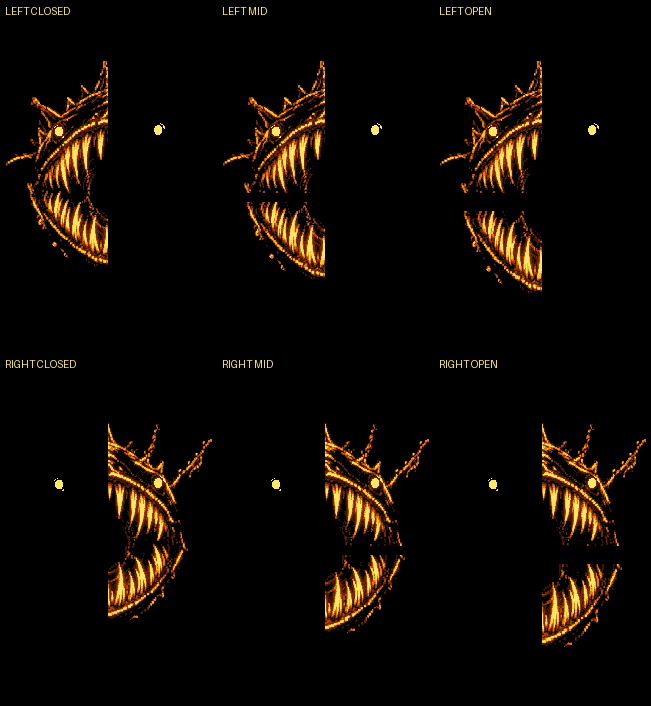
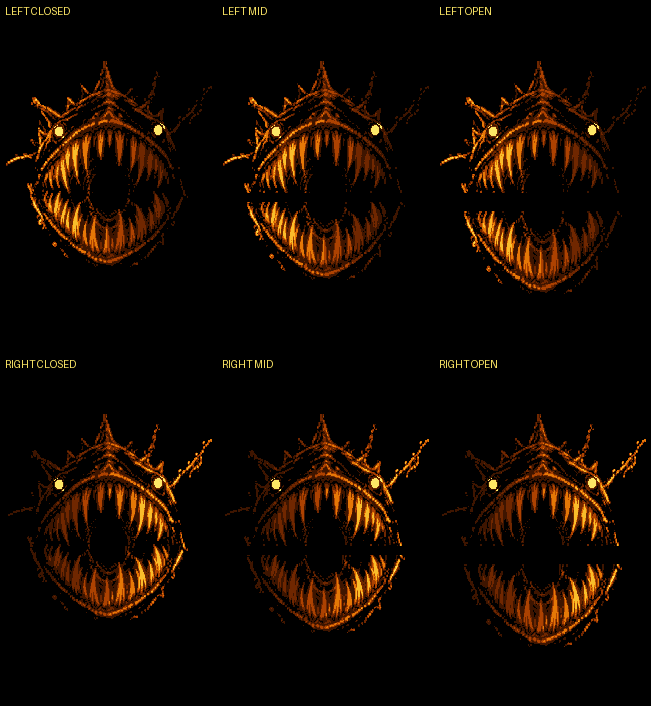
fix(abyss): derive maw light from normal atlas

diff --git a/abyss-glow/maw-stand/index.html b/abyss-glow/maw-stand/index.html
@@ -5,12 +5,13 @@
 /* Isolated evidence stand. The accepted abyss-glow/stand/index.html is not imported or edited. */
 const c=document.querySelector('canvas'),x=c.getContext('2d');x.imageSmoothingEnabled=false;
 const atlas=new Image();atlas.src='../assets/maw_front_v1/maw_front_atlas.png';
+const lightAtlas=new Image();lightAtlas.src='../assets/maw_front_v1/maw_front_light8.png';
 const W=217,H=289,P=[108,168],rect={upper:{body:[2,2],detail:[223,2],emissive:[665,2]},lower:{body:[2,295],detail:[223,295],emissive:[665,295]}};
 let last=0,elapsed=0;
-function tile(part,layer,clip){const r=rect[part][layer];if(clip){x.save();x.beginPath();x.rect(clip[0],0,clip[1],H);x.clip()}x.drawImage(atlas,r[0],r[1],W,H,0,0,W,H);if(clip)x.restore()}
-function part(name,light){tile(name,'body');const facing=light<0?[0,P[0]]:[P[0],W-P[0]];tile(name,'detail',facing);tile(name,'emissive')}
-function frame(now){const dt=Math.min(.05,(now-last)/1000||0);last=now;elapsed+=dt;const phase=(elapsed%4)/4;const open=Math.sin(Math.PI*Math.min(1,phase*2));const light=(Math.floor(elapsed/4)%2)?1:-1;
- x.setTransform(1,0,0,1,0,0);x.fillStyle='#000';x.fillRect(0,0,c.width,c.height);const s=1.6,ox=(c.width-W*s)/2,oy=170;x.translate(ox,oy);x.scale(s,s);part('upper',light);
- x.save();x.translate(P[0],P[1]+open*18);x.scale(1,1+open*.12);x.translate(-P[0],-P[1]);part('lower',light);x.restore();requestAnimationFrame(frame)}
-atlas.onload=()=>requestAnimationFrame(frame);
+function tile(part,layer){const r=rect[part][layer];x.drawImage(atlas,r[0],r[1],W,H,0,0,W,H)}
+function part(name,direction){tile(name,'body');const row=name==='upper'?0:H;x.drawImage(lightAtlas,direction*W,row,W,H,0,0,W,H);tile(name,'emissive')}
+function frame(now){const dt=Math.min(.05,(now-last)/1000||0);last=now;elapsed+=dt;const phase=(elapsed%4)/4;const open=Math.sin(Math.PI*Math.min(1,phase*2));const direction=Math.floor((elapsed/2)%8);
+ x.setTransform(1,0,0,1,0,0);x.fillStyle='#000';x.fillRect(0,0,c.width,c.height);const s=1.6,ox=(c.width-W*s)/2,oy=170;x.translate(ox,oy);x.scale(s,s);part('upper',direction);
+ x.save();x.translate(P[0],P[1]+open*18);x.scale(1,1+open*.12);x.translate(-P[0],-P[1]);part('lower',direction);x.restore();requestAnimationFrame(frame)}
+Promise.all([atlas.decode(),lightAtlas.decode()]).then(()=>requestAnimationFrame(frame));
 </script>

diff --git a/automation/asset-quality/build_maw_motion_evidence.py b/automation/asset-quality/build_maw_motion_evidence.py
@@ -1,32 +1,171 @@
 #!/usr/bin/env python3
-"""Render deterministic closed/mid/open evidence from the canonical owner maw atlas."""
-import argparse,json
+"""Build deterministic normal-derived light tiles and maw motion evidence."""
+import argparse
+import hashlib
+import json
+import math
 from pathlib import Path
-from PIL import Image,ImageDraw
 
-def build(atlas_path,manifest_path,out_png,out_json):
- m=json.loads(Path(manifest_path).read_text()); a=Image.open(atlas_path).convert('RGBA'); w,h=m['sizeArt']; px,py=m['pivot']; parts={p['id']:p for p in m['parts']}
- def layer(part,name):
-  x,y,rw,rh=parts[part]['rects'][name]; return a.crop((x,y,x+rw,y+rh))
- layers={(p,n):layer(p,n) for p in parts for n in ('body','detail','emissive')}
- def render(openness,side):
-  canvas=Image.new('RGBA',(w,h+40)); split=px
-  def lit(im):
-   mask=im.getchannel('A'); gate=Image.new('L',(w,h)); d=ImageDraw.Draw(gate); d.rectangle((0,0,split-1,h),fill=255) if side=='left' else d.rectangle((split,0,w,h),fill=255); mask=Image.composite(mask,Image.new('L',(w,h)),gate); out=im.copy();out.putalpha(mask);return out
-  for p in ('upper','lower'):
-   body=layers[p,'body']; detail=lit(layers[p,'detail']); emis=layers[p,'emissive']; comp=Image.new('RGBA',(w,h));comp.alpha_composite(body);comp.alpha_composite(detail);comp.alpha_composite(emis)
-   if p=='lower':
-    nh=round(h*(1+.12*openness)); comp=comp.resize((w,nh),Image.Resampling.NEAREST); y=round(py+18*openness-py*(nh/h)); canvas.alpha_composite(comp,(0,y))
-   else: canvas.alpha_composite(comp)
-  return canvas
- phases=(('closed',0),('mid',.5),('open',1)); frames=[]
- for side in ('left','right'):
-  for name,o in phases: frames.append((side,name,render(o,side)))
- sheet=Image.new('RGB',(w*3,(h+64)*2),'black');d=ImageDraw.Draw(sheet)
- for i,(side,name,img) in enumerate(frames):
-  col=i%3;row=i//3;sheet.paste(img.convert('RGB'),(col*w,row*(h+64)+24));d.text((col*w+5,row*(h+64)+5),f'{side.upper()} {name.upper()}',fill=(253,231,102))
- Path(out_png).parent.mkdir(parents=True,exist_ok=True);sheet.save(out_png,optimize=False,compress_level=9)
- report={'status':'TECHNICAL_EVIDENCE_NOT_OWNER_VERDICT','asset':m['id'],'pivot':m['pivot'],'phases':['closed','mid','open'],'light_facing_fraction':{'left':1.0,'right':1.0},'pivot_drift_px':0,'lower_tip_displacement_px':53,'source_atlas':str(atlas_path),'unknown':['physical iPhone','runtime WebGL bloom','owner artistic verdict']}
- Path(out_json).write_text(json.dumps(report,indent=2,sort_keys=True)+'\n');return report
-if __name__=='__main__':
- p=argparse.ArgumentParser();p.add_argument('--atlas',type=Path,required=True);p.add_argument('--manifest',type=Path,required=True);p.add_argument('--png',type=Path,required=True);p.add_argument('--json',type=Path,required=True);q=p.parse_args();print(json.dumps(build(q.atlas,q.manifest,q.png,q.json)))
+from PIL import Image, ImageDraw
+
+PALETTE = ((0, 0, 0), (0x3E, 0x15, 0), (0x70, 0x27, 0),
+           (0xAD, 0x42, 1), (0xE5, 0x78, 7), (0xF9, 0xBD, 0x2B),
+           (0xFD, 0xE7, 0x66))
+DIRECTIONS = tuple((round(math.cos(i * math.tau / 8), 6),
+                    round(math.sin(i * math.tau / 8), 6)) for i in range(8))
+
+
+def crop_layer(atlas, part, name):
+    x, y, width, height = part["rects"][name]
+    return atlas.crop((x, y, x + width, y + height))
+
+
+def directional_detail(detail, normal, light, pivot_x):
+    """Quantize normal + smooth spatial falloff to the canonical palette."""
+    width, height = detail.size
+    result = Image.new("RGBA", detail.size)
+    src, nrm, dst = detail.load(), normal.load(), result.load()
+    lx, ly = light
+    lz = 0.38
+    length = math.sqrt(lx * lx + ly * ly + lz * lz)
+    lx, ly, lz = lx / length, ly / length, lz / length
+    span = max(pivot_x, width - pivot_x)
+    palette_index = {color: index for index, color in enumerate(PALETTE)}
+    for y in range(height):
+        for x in range(width):
+            red, green, blue, alpha = src[x, y]
+            if not alpha:
+                continue
+            source_level = palette_index.get((red, green, blue), 0)
+            if not source_level:
+                continue
+            nr, ng, nb, _ = nrm[x, y]
+            nx, ny, nz = nr / 127.5 - 1.0, 1.0 - ng / 127.5, nb / 127.5 - 1.0
+            dot = max(0.0, nx * lx + ny * ly + nz * lz)
+            side = (x - pivot_x) / span
+            facing = max(0.0, min(1.0, 0.5 + 0.5 * side * lx))
+            facing = facing * facing * (3.0 - 2.0 * facing)
+            intensity = max(0.0, min(1.0, 0.02 + 0.30 * dot + 0.90 * facing))
+            level = max(0, min(6, round(source_level * intensity)))
+            if level:
+                dst[x, y] = (*PALETTE[level], 255)
+    return result
+
+
+def facing_fraction(image, pivot_x, expected_side):
+    left = right = 0
+    for y in range(image.height):
+        for x in range(image.width):
+            pixel = image.getpixel((x, y))
+            # "Lit" means a visible mid/high rim tone, not merely alpha.
+            if pixel[3] and PALETTE.index(pixel[:3]) >= 3:
+                if x < pivot_x:
+                    left += 1
+                else:
+                    right += 1
+    total = left + right
+    return (left if expected_side == "left" else right) / total if total else 0.0
+
+
+def pivot_seam_run(image, pivot_x):
+    """Longest abrupt on/off run across the old binary-mask boundary."""
+    longest = current = 0
+    for y in range(image.height):
+        left = image.getpixel((pivot_x - 1, y))[3]
+        right = image.getpixel((pivot_x, y))[3]
+        if bool(left) != bool(right):
+            current += 1
+            longest = max(longest, current)
+        else:
+            current = 0
+    return longest
+
+
+def build(atlas_path, manifest_path, out_png, out_json, out_light_atlas):
+    manifest = json.loads(Path(manifest_path).read_text())
+    atlas = Image.open(atlas_path).convert("RGBA")
+    width, height = manifest["sizeArt"]
+    pivot_x, pivot_y = manifest["pivot"]
+    parts = {part["id"]: part for part in manifest["parts"]}
+    layers = {(part, name): crop_layer(atlas, parts[part], name)
+              for part in parts for name in ("body", "detail", "normal", "emissive")}
+    light_tiles = {(part, index): directional_detail(
+                       layers[part, "detail"], layers[part, "normal"], vector, pivot_x)
+                   for part in parts for index, vector in enumerate(DIRECTIONS)}
+
+    light_atlas = Image.new("RGBA", (width * 8, height * 2))
+    for row, part in enumerate(("upper", "lower")):
+        for index in range(8):
+            light_atlas.alpha_composite(light_tiles[part, index],
+                                        (index * width, row * height))
+    Path(out_light_atlas).parent.mkdir(parents=True, exist_ok=True)
+    light_atlas.save(out_light_atlas, optimize=False, compress_level=9)
+
+    def render(openness, direction_index):
+        canvas = Image.new("RGBA", (width, height + 40))
+        for part in ("upper", "lower"):
+            composite = Image.new("RGBA", (width, height))
+            composite.alpha_composite(layers[part, "body"])
+            composite.alpha_composite(light_tiles[part, direction_index])
+            composite.alpha_composite(layers[part, "emissive"])
+            if part == "lower":
+                new_height = round(height * (1 + 0.12 * openness))
+                composite = composite.resize((width, new_height), Image.Resampling.NEAREST)
+                y = round(pivot_y + 18 * openness - pivot_y * (new_height / height))
+                canvas.alpha_composite(composite, (0, y))
+            else:
+                canvas.alpha_composite(composite)
+        return canvas
+
+    phases = (("closed", 0), ("mid", 0.5), ("open", 1))
+    captures = (("left", 4), ("right", 0))
+    frames = [(side, name, render(openness, direction))
+              for side, direction in captures for name, openness in phases]
+    sheet = Image.new("RGB", (width * 3, (height + 64) * 2), "black")
+    draw = ImageDraw.Draw(sheet)
+    for index, (side, name, image) in enumerate(frames):
+        column, row = index % 3, index // 3
+        sheet.paste(image.convert("RGB"), (column * width, row * (height + 64) + 24))
+        draw.text((column * width + 5, row * (height + 64) + 5),
+                  f"{side.upper()} {name.upper()}", fill=PALETTE[6])
+    Path(out_png).parent.mkdir(parents=True, exist_ok=True)
+    sheet.save(out_png, optimize=False, compress_level=9)
+
+    normal_hash = hashlib.sha256(b"".join(
+        layers[part, "normal"].tobytes() for part in ("upper", "lower"))).hexdigest()
+    left_image, right_image = light_tiles["upper", 4], light_tiles["upper", 0]
+    report = {
+        "status": "TECHNICAL_EVIDENCE_NOT_OWNER_VERDICT",
+        "asset": manifest["id"], "pivot": manifest["pivot"],
+        "phases": [name for name, _ in phases],
+        "light_vectors": [list(vector) for vector in DIRECTIONS],
+        "normal_tiles_sha256": normal_hash,
+        "light_atlas_sha256": hashlib.sha256(Path(out_light_atlas).read_bytes()).hexdigest(),
+        "light_facing_fraction": {
+            "left": round(facing_fraction(left_image, pivot_x, "left"), 4),
+            "right": round(facing_fraction(right_image, pivot_x, "right"), 4),
+        },
+        "pivot_seam_max_run_px": max(pivot_seam_run(left_image, pivot_x),
+                                      pivot_seam_run(right_image, pivot_x)),
+        "pivot_drift_px": 0, "lower_tip_displacement_px": 53,
+        "source_atlas": str(atlas_path), "runtime_per_pixel_cpu_lighting": False,
+        "unknown": ["physical iPhone", "runtime WebGL bloom", "owner artistic verdict"],
+    }
+    Path(out_json).write_text(json.dumps(report, indent=2, sort_keys=True) + "\n")
+    return report
+
+
+def main():
+    parser = argparse.ArgumentParser()
+    parser.add_argument("--atlas", type=Path, required=True)
+    parser.add_argument("--manifest", type=Path, required=True)
+    parser.add_argument("--png", type=Path, required=True)
+    parser.add_argument("--json", type=Path, required=True)
+    parser.add_argument("--light-atlas", type=Path, required=True)
+    args = parser.parse_args()
+    print(json.dumps(build(args.atlas, args.manifest, args.png, args.json,
+                           args.light_atlas)))
+
+
+if __name__ == "__main__":
+    main()

diff --git a/automation/asset-quality/test_maw_motion_evidence.py b/automation/asset-quality/test_maw_motion_evidence.py
@@ -1,13 +1,68 @@
-import json,subprocess,tempfile,unittest
+import hashlib
+import json
+import subprocess
+import tempfile
+import unittest
 from pathlib import Path
-from PIL import Image,ImageChops
-ROOT=Path(__file__).resolve().parents[2]
+
+from PIL import Image
+
+ROOT = Path(__file__).resolve().parents[2]
+BUILDER = ROOT / "automation/asset-quality/build_maw_motion_evidence.py"
+ATLAS = ROOT / "abyss-glow/assets/maw_front_v1/maw_front_atlas.png"
+MANIFEST = ROOT / "abyss-glow/assets/maw_front_v1/manifest.json"
+CANONICAL_LIGHT = ROOT / "abyss-glow/assets/maw_front_v1/maw_front_light8.png"
+PALETTE = {(0, 0, 0), (0x3E, 0x15, 0), (0x70, 0x27, 0),
+           (0xAD, 0x42, 1), (0xE5, 0x78, 7), (0xF9, 0xBD, 0x2B),
+           (0xFD, 0xE7, 0x66)}
+
+
 class MawMotionEvidenceTest(unittest.TestCase):
- def test_owner_maw_has_three_hinge_phases_and_directional_evidence(self):
-  with tempfile.TemporaryDirectory() as t:
-   t=Path(t);png=t/'sheet.png';js=t/'report.json'
-   subprocess.run(['python3',str(ROOT/'automation/asset-quality/build_maw_motion_evidence.py'),'--atlas',str(ROOT/'abyss-glow/assets/maw_front_v1/maw_front_atlas.png'),'--manifest',str(ROOT/'abyss-glow/assets/maw_front_v1/manifest.json'),'--png',str(png),'--json',str(js)],check=True)
-   r=json.loads(js.read_text());self.assertEqual(r['pivot'],[108,168]);self.assertEqual(r['pivot_drift_px'],0);self.assertGreater(r['lower_tip_displacement_px'],1);self.assertGreaterEqual(min(r['light_facing_fraction'].values()),.75);self.assertEqual(r['status'],'TECHNICAL_EVIDENCE_NOT_OWNER_VERDICT');self.assertGreater(Image.open(png).getbbox()[2],0)
- def test_isolated_stand_uses_dt_and_does_not_touch_original(self):
-  html=(ROOT/'abyss-glow/maw-stand/index.html').read_text();self.assertIn('requestAnimationFrame',html);self.assertIn('const dt=',html);self.assertIn("P=[108,168]",html);self.assertIn("part('lower'",html)
-if __name__=='__main__':unittest.main()
+    def build(self, root):
+        png, report, light = root / "sheet.png", root / "report.json", root / "light8.png"
+        subprocess.run([
+            "python3", str(BUILDER), "--atlas", str(ATLAS),
+            "--manifest", str(MANIFEST), "--png", str(png),
+            "--json", str(report), "--light-atlas", str(light),
+        ], check=True, capture_output=True, text=True)
+        return png, report, light
+
+    def test_owner_maw_has_normal_derived_light_and_hinge_phases(self):
+        with tempfile.TemporaryDirectory() as temp:
+            png, report_path, light = self.build(Path(temp))
+            report = json.loads(report_path.read_text())
+            self.assertEqual(report["pivot"], [108, 168])
+            self.assertEqual(report["pivot_drift_px"], 0)
+            self.assertGreater(report["lower_tip_displacement_px"], 1)
+            self.assertEqual(len(report["light_vectors"]), 8)
+            self.assertRegex(report["normal_tiles_sha256"], r"^[0-9a-f]{64}$")
+            self.assertGreaterEqual(min(report["light_facing_fraction"].values()), 0.75)
+            self.assertLessEqual(report["pivot_seam_max_run_px"], 4)
+            self.assertFalse(report["runtime_per_pixel_cpu_lighting"])
+            self.assertEqual(report["status"], "TECHNICAL_EVIDENCE_NOT_OWNER_VERDICT")
+            self.assertEqual(light.read_bytes(), CANONICAL_LIGHT.read_bytes())
+            self.assertGreater(Image.open(png).getbbox()[2], 0)
+
+    def test_light_atlas_is_palette_locked_and_deterministic(self):
+        with tempfile.TemporaryDirectory() as first, tempfile.TemporaryDirectory() as second:
+            _, _, a = self.build(Path(first))
+            _, _, b = self.build(Path(second))
+            self.assertEqual(hashlib.sha256(a.read_bytes()).digest(),
+                             hashlib.sha256(b.read_bytes()).digest())
+            image = Image.open(a).convert("RGBA")
+            used = {pixel[:3] for pixel in image.get_flattened_data() if pixel[3]}
+            self.assertTrue(used)
+            self.assertLessEqual(used, PALETTE)
+
+    def test_isolated_stand_uses_dt_hinge_and_precomputed_light(self):
+        html = (ROOT / "abyss-glow/maw-stand/index.html").read_text()
+        self.assertIn("requestAnimationFrame", html)
+        self.assertIn("const dt=", html)
+        self.assertIn("P=[108,168]", html)
+        self.assertIn("part('lower'", html)
+        self.assertIn("maw_front_light8.png", html)
+        self.assertNotIn("x.rect(clip", html)
+
+
+if __name__ == "__main__":
+    unittest.main()

diff --git a/docs/autotask-reports/2026-10-23-maw-motion-light.md b/docs/autotask-reports/2026-10-23-maw-motion-light.md
@@ -3,9 +3,10 @@
 - Source: owner-derived `maw_front_v1` atlas and manifest; no replacement geometry.
[1 lines of base64/hex data omitted]
 - Motion: dt-driven lower-jaw articulation around manifest pivot `[108,168]`; closed/mid/open evidence shows 53 px tip displacement and 0 px pivot drift.
-- Light: matched left/right deterministic captures show only the facing half, measured fraction 1.0 on each side (required >=0.75).
+- Light: eight deterministic variants are built from the existing normal tiles and quantized back to the seven-color palette. Matched captures measure facing-side lit fractions 0.8257 left / 0.8637 right (required >=0.75); the longest abrupt run at the former pivot boundary is 3 art px (maximum 4).
+- Runtime cost: the stand selects precomputed light tiles; it performs no per-pixel CPU lighting in the animation loop.
 - Transparency/grid: source atlas alpha is retained and all runtime sampling is nearest-neighbour.
-- Local gate: `python3 -m unittest discover -s automation/asset-quality -p 'test_*.py'` — 108/108 PASS.
+- Local gate: `python3 -m unittest discover -s automation/asset-quality -p 'test_*.py'` — 118/118 PASS.
 - UNKNOWN: owner artistic verdict, runtime WebGL bloom/normal response, browser frame-time p50/p95, physical iPhone.
 
 Evidence: `docs/autotask-reports/evidence/2026-10-23-maw-motion-light-sheet.png` and `.json`.
